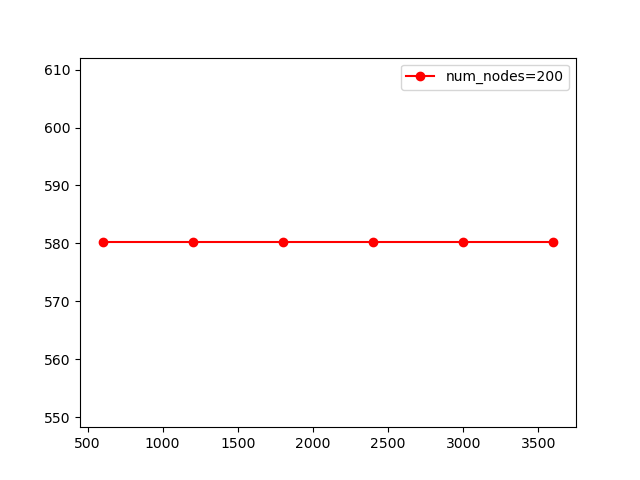
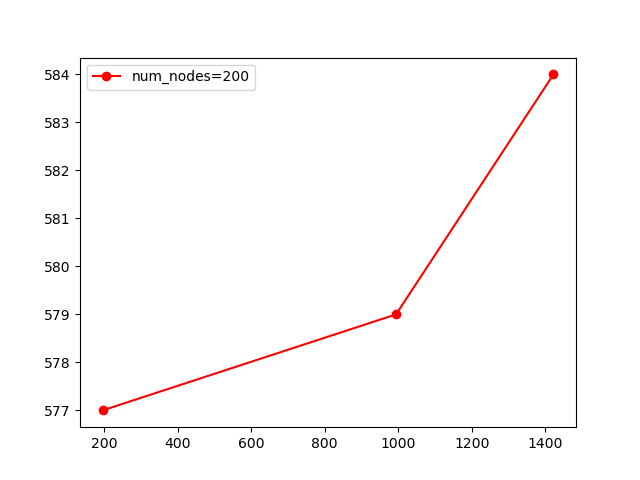
rev

diff --git a/baseline/gurobi.py b/baseline/gurobi.py
@@ -1,7 +1,10 @@
+import numpy as np
 from gurobipy import *
 import os
+import copy
 from typing import List
 import networkx as nx
+import time
 import sys
 from util import read_nxgraph
 from util import calc_txt_files_with_prefix
@@ -9,7 +12,70 @@ from util import calc_result_file_name
 from util import calc_avg_std_of_objs
 from util import plot_fig
 from util import fetch_node
-from util import transfer_float_to_binary
+from util import (transfer_float_to_binary,
+                  obtain_first_number)
+from config import *
+
+# 定义回调函数，每隔一段时间将当前找到的最佳可行解输出到当前目录下以 solution 开头
+# 的文件中。同时，将当前进展输出到 report.txt 报告中。
+def mycallback(model, where):
+    if where == GRB.Callback.MIPSOL:
+        # MIP solution callback
+        currentTime = time.time()
+        running_duation = int((currentTime - model._startTime) / model._interval) * model._interval
+
+        # Statistics
+        objbnd = model.cbGet(GRB.Callback.MIPSOL_OBJBND)
+        obj = model.cbGet(GRB.Callback.MIPSOL_OBJ)
+        # gap = abs(obj - objbnd) / (obj + 1e-6)
+
+        # Export solution to a file
+        solutionfile = open("solution_" + str(running_duation) + ".txt", 'w')
+
+        # filename = copy.deepcopy(model._reportFile.name) # ok, successful
+        filename = copy.deepcopy(model._attribute['result_filename'])
+        filename = filename.replace('.txt', '')
+        filename = filename + '_' + str(running_duation) + '.txt';
+
+        # vars = model.getVars()
+        # nodes: List[int] = []
+        # values: List[int] = []
+        # for var in vars:
+        #     node = fetch_node(var.VarName)
+        #     if node is None:
+        #         break
+        #     value = transfer_float_to_binary(var.x)
+        #     nodes.append(node)
+        #     values.append(value)
+
+        if running_duation < GUROBI_INTERVAL:
+            return
+        with open(filename, 'w', encoding="UTF-8") as new_file:
+            write_statistics_in_mycallback(model, new_file, add_slash=True)
+            new_file.write(f"// num_nodes: {model._attribute['num_nodes']}\n")
+            # for i in range(len(nodes)):
+            #     new_file.write(f"{nodes[i] + 1} {values[i] + 1}\n")
+            varlist = model.getVars()
+            soln = model.cbGetSolution(varlist)
+            for i in range(len(varlist)):
+                value = round(soln[i]) + 1
+                new_file.write(f"{i + 1}  {value}\n")
+            # for var, soln in zip(varlist, soln):
+            #     solutionfile.write('%s %d\n' % (var.VarName, soln))
+
+
+        # varlist = model.getVars()
+        # soln = model.cbGetSolution(varlist)
+        # solutionfile.write('Objective %e\n' % obj)
+        # for var, soln in zip(varlist, soln):
+        #     solutionfile.write('%s %.16e\n' % (var.VarName, soln))
+        # solutionfile.close()
+        #
+        # # Export statistics
+        # msg = str(currentTime - model._startTime) + " : " + "Solution Obj: " + str(obj) + " Solution Gap: " + str(
+        #     gap) + "\n"
+        # model._reportFile.write(msg)
+        # model._reportFile.flush()
 
 # the file has been open
 def write_statistics(model, new_file, add_slash = False):
@@ -20,6 +86,41 @@ def write_statistics(model, new_file, add_slash = False):
     new_file.write(f"{prefix}obj_bound: {model.ObjBound}\n")
     # new_file.write(f"time_limit: {time_limit}\n")
     time_limit = model.getParamInfo("TIME_LIMIT")
+    new_file.write(f"{prefix}time_limit: {time_limit}\n")
+
+def write_statistics_in_mycallback(model, new_file, add_slash = False):
+    if model.getAttr('SolCount') == 0:
+        return
+
+    currentTime = time.time()
+    running_duation = int((currentTime - model._startTime) / model._interval) * model._interval
+
+    # Statistics
+    objbnd = model.cbGet(GRB.Callback.MIPSOL_OBJBND)
+    obj = model.cbGet(GRB.Callback.MIPSOL_OBJ)
+    gap = abs(obj - objbnd) / (obj + 1e-6)
+
+    # varlist = model.getVars()
+    # soln = model.cbGetSolution(varlist)
+    # new_file.write('Objective %e\n' % obj)
+    # for var, soln in zip(varlist, soln):
+    #     new_file.write('%s %.16e\n' % (var.VarName, soln))
+    # new_file.close()
+
+    # # Export statistics
+    # msg = str(currentTime - model._startTime) + " : " + "Solution Obj: " + str(obj) + " Solution Gap: " + str(
+    #     gap) + "\n"
+    # model._reportFile.write(msg)
+    # model._reportFile.flush()
+
+    prefix = '// ' if add_slash else ''
+    new_file.write(f"{prefix}obj: {obj}\n")
+    new_file.write(f"{prefix}running_duration: {running_duation}\n")
+    new_file.write(f"{prefix}gap: {gap}\n")
+    new_file.write(f"{prefix}obj_bound: {objbnd}\n")
+    # new_file.write(f"time_limit: {time_limit}\n")
+    time_limit = model.getParamInfo("TIME_LIMIT")
+    # time_limit2 = model.params['TimeLimit']
     new_file.write(f"{prefix}time_limit: {time_limit}\n")
 
 # running_duration (seconds) is included.
@@ -87,7 +188,16 @@ def run_using_gurobi(filename: str, time_limit: int = None, plot_fig_: bool = Fa
             model.addConstr(y[(i, j)] + x[i] + x[j] <= 2, name='C0b_' + str(i) + '_' + str(j))
     if time_limit is not None:
         model.setParam('TimeLimit', time_limit)
-    model.optimize()
+
+    # reportFile = open('../result/', 'w')
+
+    result_filename = calc_result_file_name(filename)
+
+    model._startTime = time.time()
+    # model._reportFile = open(result_filename, 'w')
+    model._interval = GUROBI_INTERVAL  # 每隔一段时间输出当前可行解，单位秒
+    model._attribute = {'data_filename': filename, 'result_filename': result_filename, 'num_nodes': num_nodes}
+    model.optimize(mycallback)
 
     if model.status == GRB.INFEASIBLE:
         model.computeIIS()
@@ -99,7 +209,6 @@ def run_using_gurobi(filename: str, time_limit: int = None, plot_fig_: bool = Fa
 
     elif model.getAttr('SolCount') >= 1:  # get the SolCount:
         # result_filename = '../result/result'
-        result_filename = calc_result_file_name(filename)
         write_result_gurobi(model, result_filename, time_limit)
 
     num_vars = model.getAttr(GRB.Attr.NumVars)
@@ -119,6 +228,8 @@ def run_using_gurobi(filename: str, time_limit: int = None, plot_fig_: bool = Fa
     alg_name = 'Gurobi'
     if plot_fig_:
         plot_fig(scores, alg_name)
+
+    print(f"model.Runtime: {model.Runtime}")
     print()
 
 def run_gurobi_over_multiple_files(prefixes: List[str], time_limits: List[int], directory_data: str = 'data', directory_result: str = 'result'):
@@ -134,17 +245,18 @@ if __name__ == '__main__':
     select_single_file = False
     if select_single_file:
         filename = '../data/syn/syn_50_176.txt'
-        time_limits = [0.5 * 3600]
+        time_limits = GUROBI_TIME_LIMITS
         run_using_gurobi(filename, time_limit=time_limits[0], plot_fig_=False)
         directory = '../result'
         prefixes = ['syn_50_']
         avg_std = calc_avg_std_of_objs(directory, prefixes, time_limits)
     else:
         if_use_syn = False
-        # time_limits = [0.5 * 3600]
-        time_limits = [10 * 60, 20 * 60, 30 * 60, 40 * 60, 50 * 60, 60 * 60]
+        # time_limits = GUROBI_TIME_LIMITS
+        # time_limits = [10 * 60, 20 * 60, 30 * 60, 40 * 60, 50 * 60, 60 * 60]
         if if_use_syn:
-            prefixes = ['syn_10_', 'syn_50_', 'syn_100_', 'syn_300_', 'syn_500_', 'syn_700_', 'syn_900_', 'syn_1000_', 'syn_3000_', 'syn_5000_', 'syn_7000_', 'syn_9000_', 'syn_10000_']
+            # prefixes = ['syn_10_', 'syn_50_', 'syn_100_', 'syn_300_', 'syn_500_', 'syn_700_', 'syn_900_', 'syn_1000_', 'syn_3000_', 'syn_5000_', 'syn_7000_', 'syn_9000_', 'syn_10000_']
+            prefixes = ['syn_1000_']
             directory_data = '../data/syn'
 
         if_use_syndistri = True
@@ -153,8 +265,8 @@ if __name__ == '__main__':
             directory_data = '../data/syndistri2'
 
         directory_result = '../result'
-        run_gurobi_over_multiple_files(prefixes, time_limits, directory_data, directory_result)
-        avg_std = calc_avg_std_of_objs(directory_result, prefixes, time_limits)
+        run_gurobi_over_multiple_files(prefixes, GUROBI_TIME_LIMITS, directory_data, directory_result)
+        avg_std = calc_avg_std_of_objs(directory_result, prefixes, GUROBI_TIME_LIMITS)
 
     pass
 

diff --git a/util.py b/util.py
@@ -1,3 +1,5 @@
+import os
+os.environ['KMP_DUPLICATE_LIB_OK']='True'
 import copy
 from torch.autograd import Variable
 import os
@@ -296,9 +298,9 @@ def plot_fig_over_durations(objs: List[int], durations: List[int], label: str):
     plt.savefig('./result/' + label + '.png')
     plt.show()
 
-# return: num_nodes, time_limit, obj,
+# return: num_nodes, running_duration:, obj,
 def read_result_comments(filename: str):
-    num_nodes, time_limit, obj = None, None, None
+    num_nodes, running_duration, obj = None, None, None
     with open(filename, 'r') as file:
         # lines = []
         line = file.readline()
@@ -307,44 +309,44 @@ def read_result_comments(filename: str):
                 if 'num_nodes:' in line:
                     num_nodes = float(line.split('num_nodes:')[1])
                     break
-                if 'time_limit:' in line:
-                    time_limit = float(line.split("time_limit: ('TIME_LIMIT', <class 'float'>, ")[1].split(",")[0])
+                if 'running_duration:' in line:
+                    running_duration = obtain_first_number(line)
                 if 'obj:' in line:
                     obj = float(line.split('obj:')[1])
             line = file.readline()
-    return int(num_nodes), int(time_limit), obj
+    return int(num_nodes), running_duration, obj
 
 def read_result_comments_multifiles(dir: str, prefixes: str):
     res = {}
     num_nodess = set()
-    time_limits = set()
+    running_durations = set()
     # for prefix in prefixes:
     files = calc_txt_files_with_prefix(dir, prefixes)
     for i in range(len(files)):
         file = files[i]
-        num_nodes, time_limit, obj = read_result_comments(file)
+        num_nodes, running_duration, obj = read_result_comments(file)
         num_nodess.add(num_nodes)
-        time_limits.add(time_limit)
+        running_durations.add(running_duration)
         if str(num_nodes) in res.keys():
-            if str(time_limit) in res[str(num_nodes)].keys():
-                res[str(num_nodes)][str(time_limit)].append(obj)
+            if str(running_duration) in res[str(num_nodes)].keys():
+                res[str(num_nodes)][str(running_duration)].append(obj)
             else:
-                res[str(num_nodes)][str(time_limit)] = [obj]
+                res[str(num_nodes)][str(running_duration)] = [obj]
             # res[str(num_nodes)] = {**res[str(num_nodes)], **tmp_dict}
         else:
-            res[str(num_nodes)] = {str(time_limit): [obj]}
+            res[str(num_nodes)] = {str(running_duration): [obj]}
     num_nodess = list(num_nodess)
     num_nodess.sort()
-    time_limits = list(time_limits)
-    time_limits.sort()
+    running_durations = list(running_durations)
+    running_durations.sort()
     for num_nodes in num_nodess:
         objs = []
-        for time_limit in time_limits:
-            obj = np.mean(res[str(num_nodes)][str(time_limit)])
+        for running_duration in running_durations:
+            obj = np.mean(res[str(num_nodes)][str(running_duration)])
             objs.append(obj)
         label = f"num_nodes={num_nodes}"
-        print(f"objs: {objs}, time_limits: {time_limits}, label: {label}")
-        plot_fig_over_durations(objs, time_limits, label)
+        print(f"objs: {objs}, running_duration: {running_durations}, label: {label}")
+        plot_fig_over_durations(objs, running_durations, label)
 
 
 def calc_txt_files_with_prefix(directory: str, prefix: str):
@@ -445,6 +447,20 @@ def fetch_node(line: str):
     else:
         node = None
     return node
+
+# e.g., s = "// time_limit: ('TIME_LIMIT', <class 'float'>, 36.0, 0.0, inf, inf)",
+# then returns 36
+def obtain_first_number(s: str):
+    res = ''
+    pass_first_digit = False
+    for i in range(len(s)):
+        if s[i].isdigit():
+            res += s[i]
+            pass_first_digit = True
+        elif pass_first_digit:
+            break
+    value = int(res)
+    return value
 
 # transfer result file,
 # e.g.,
@@ -834,6 +850,9 @@ class EncoderBase64:
 
 
 if __name__ == '__main__':
+    s = "// time_limit: ('TIME_LIMIT', <class 'float'>, 36.0, 0.0, inf, inf)"
+    val = obtain_first_number(s)
+
     read_txt = True
     if read_txt:
         graph1 = read_nxgraph('data/gset/gset_14.txt')
@@ -877,7 +896,7 @@ if __name__ == '__main__':
         directory_result = 'result'
         # prefixes = ['syn_10_', 'syn_50_', 'syn_100_', 'syn_300_', 'syn_500_', 'syn_700_', 'syn_900_', 'syn_1000_', 'syn_3000_', 'syn_5000_', 'syn_7000_', 'syn_9000_', 'syn_10000_']
         prefixes = ['syn_10_', 'syn_50_', 'syn_100_']
-        time_limits = [0.5 * 3600]
+        time_limits = GUROBI_TIME_LIMITS
         avgs_stds = calc_avg_std_of_objs(directory_result, prefixes, time_limits)
 
     # filename = 'result/syn_10_21_1800.sta'
@@ -888,13 +907,13 @@ if __name__ == '__main__':
     # to_extension = '.txt'
     # transfer_write_solver_results(directory_result, prefixes, time_limits, from_extension, to_extension)
 
-    if_plot = False
+    if_plot = True
     if(if_plot):
-        dir = './result/syn_powerlaw_gurobi'
-        prefixes = 'graph_powerlaw_'
+        dir = './result/syndistri2_gurobi'
+        prefixes = 'powerlaw_200_'
         read_result_comments_multifiles(dir, prefixes)
 
-    if_generate_distribution = True
+    if_generate_distribution = False
     if if_generate_distribution:
         num_nodess = [20, 40, 100, 200, 300, 400, 500, 600, 700, 800, 900, 1000, 1100, 1200, 1300, 1400, 1500, 1600, 1700, 1800, 1900, 2000]
         # num_nodess = [1100, 1200, 1300, 1400, 1500, 1600, 1700, 1800, 1900, 2000]

diff --git a/config.py b/config.py
@@ -16,4 +16,9 @@ GSET_DIR: str = './data/gset'
 GRAPH_DISTRI_TYPES: List[GraphDistriType] = [GraphDistriType.erdos_renyi, GraphDistriType.powerlaw, GraphDistriType.barabasi_albert]
     # graph_types = ['erdos_renyi', 'powerlaw', 'barabasi_albert']
 
+GUROBI_INTERVAL = 5 * 60  # seconds, the interval of writing results to txt files
+GUROBI_TIME_LIMITS = [1 * 3600]  # seconds
+
+
+
 
